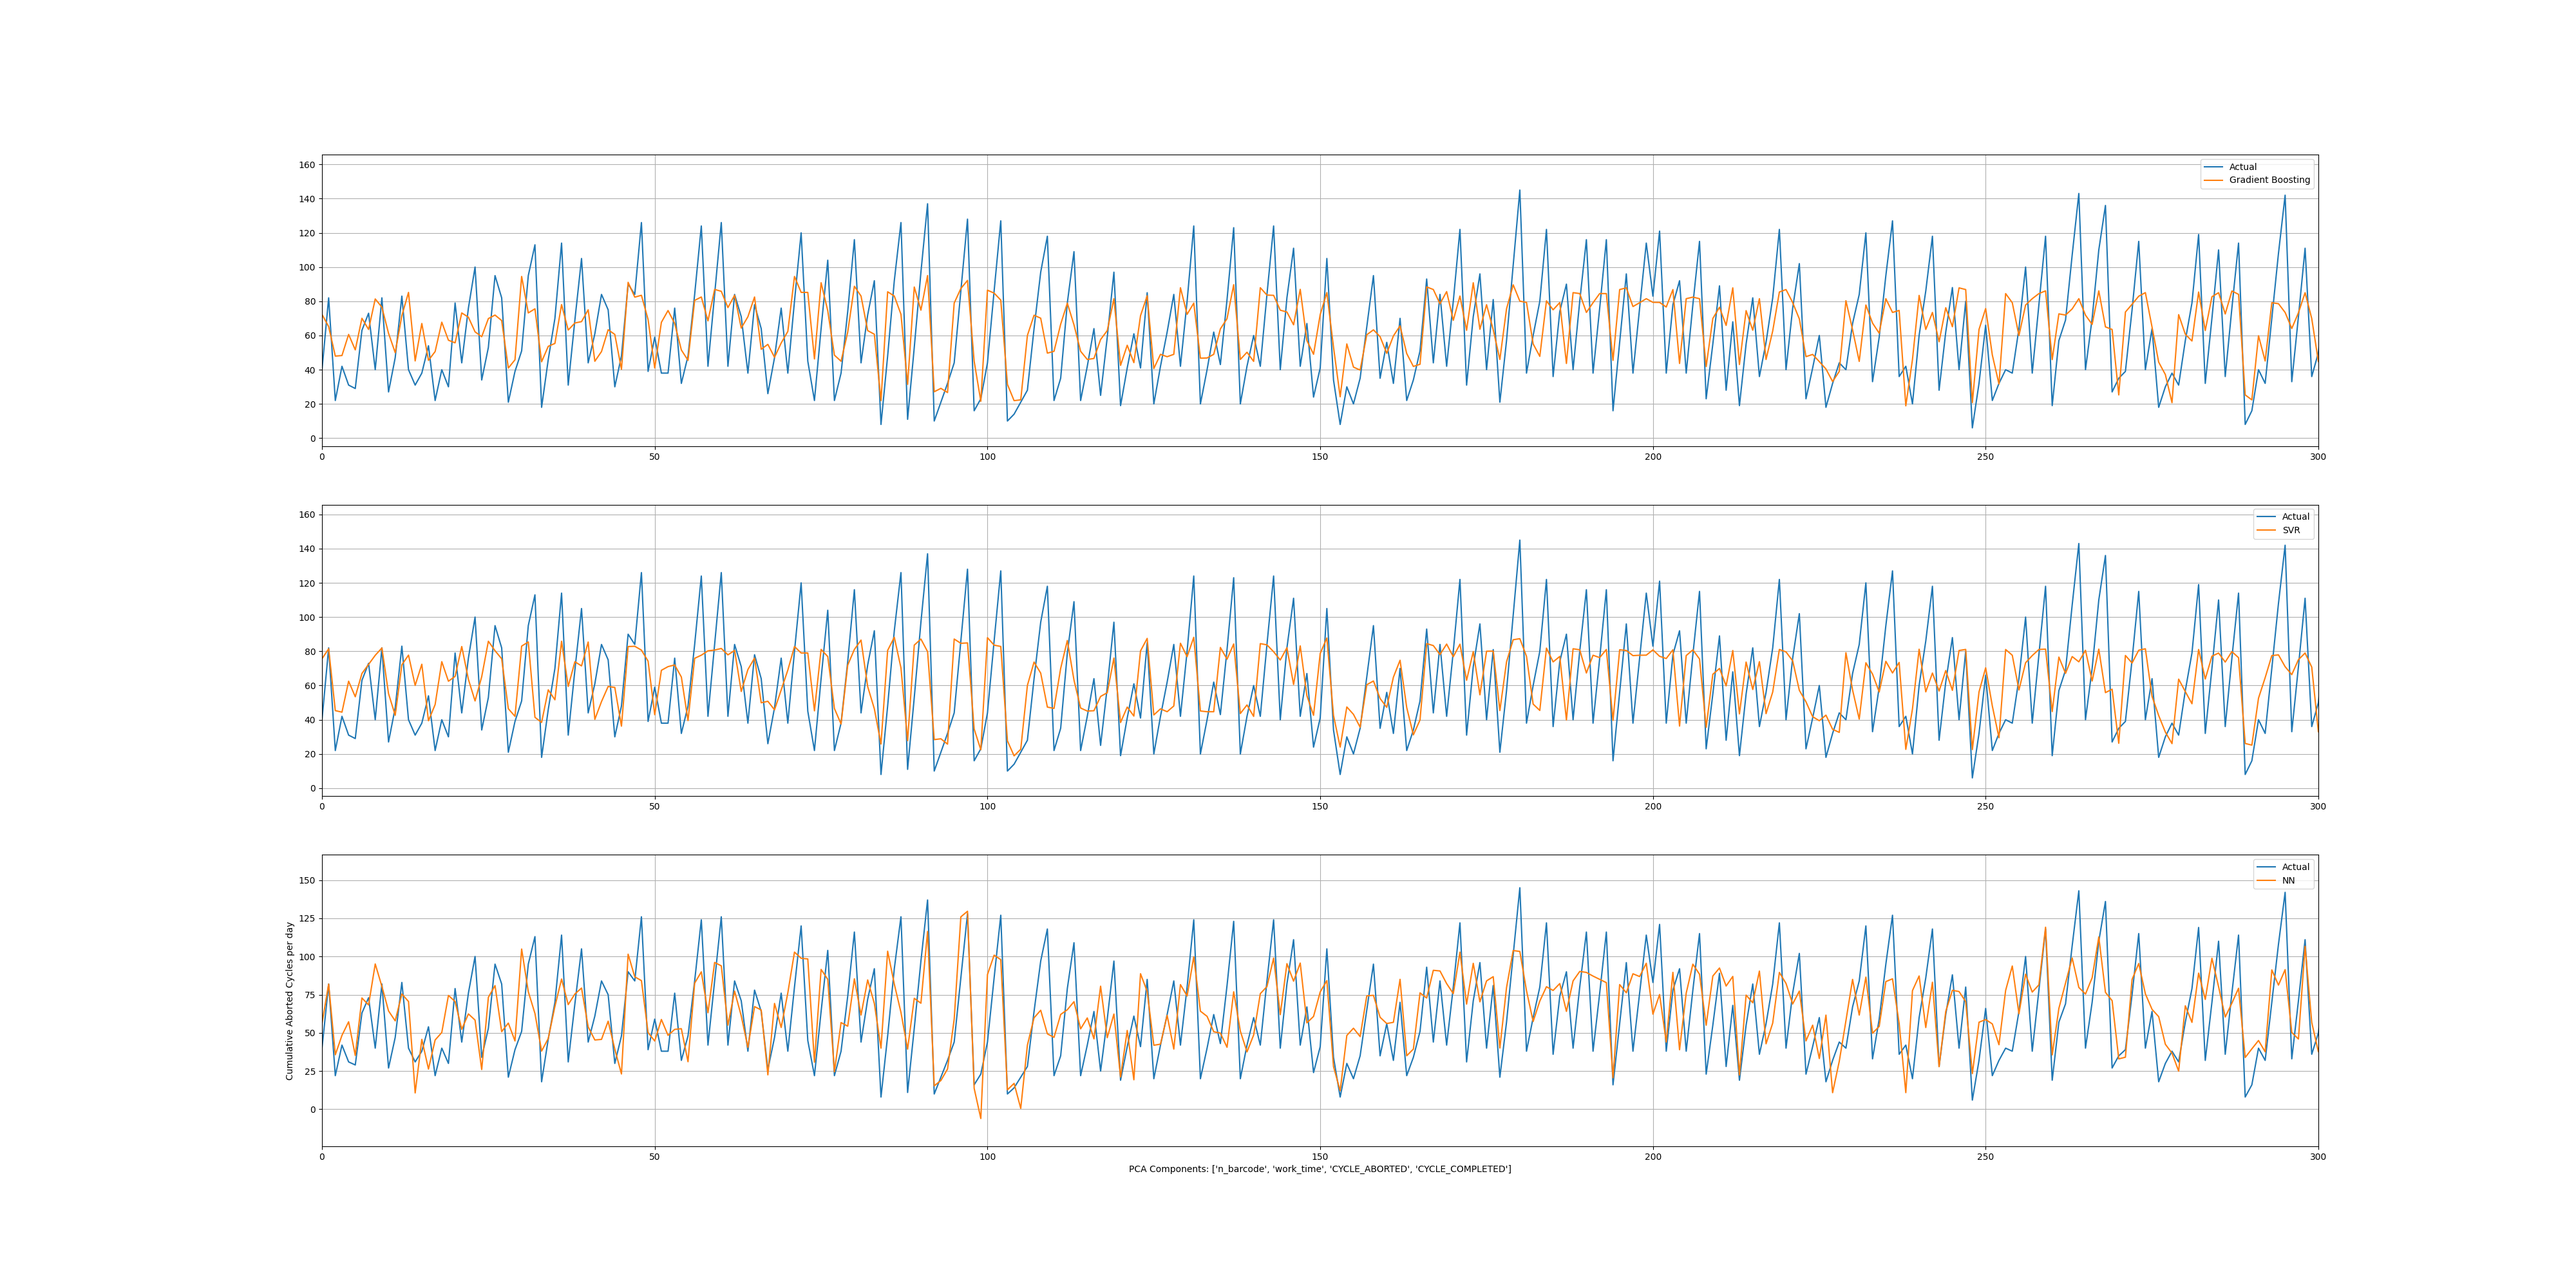
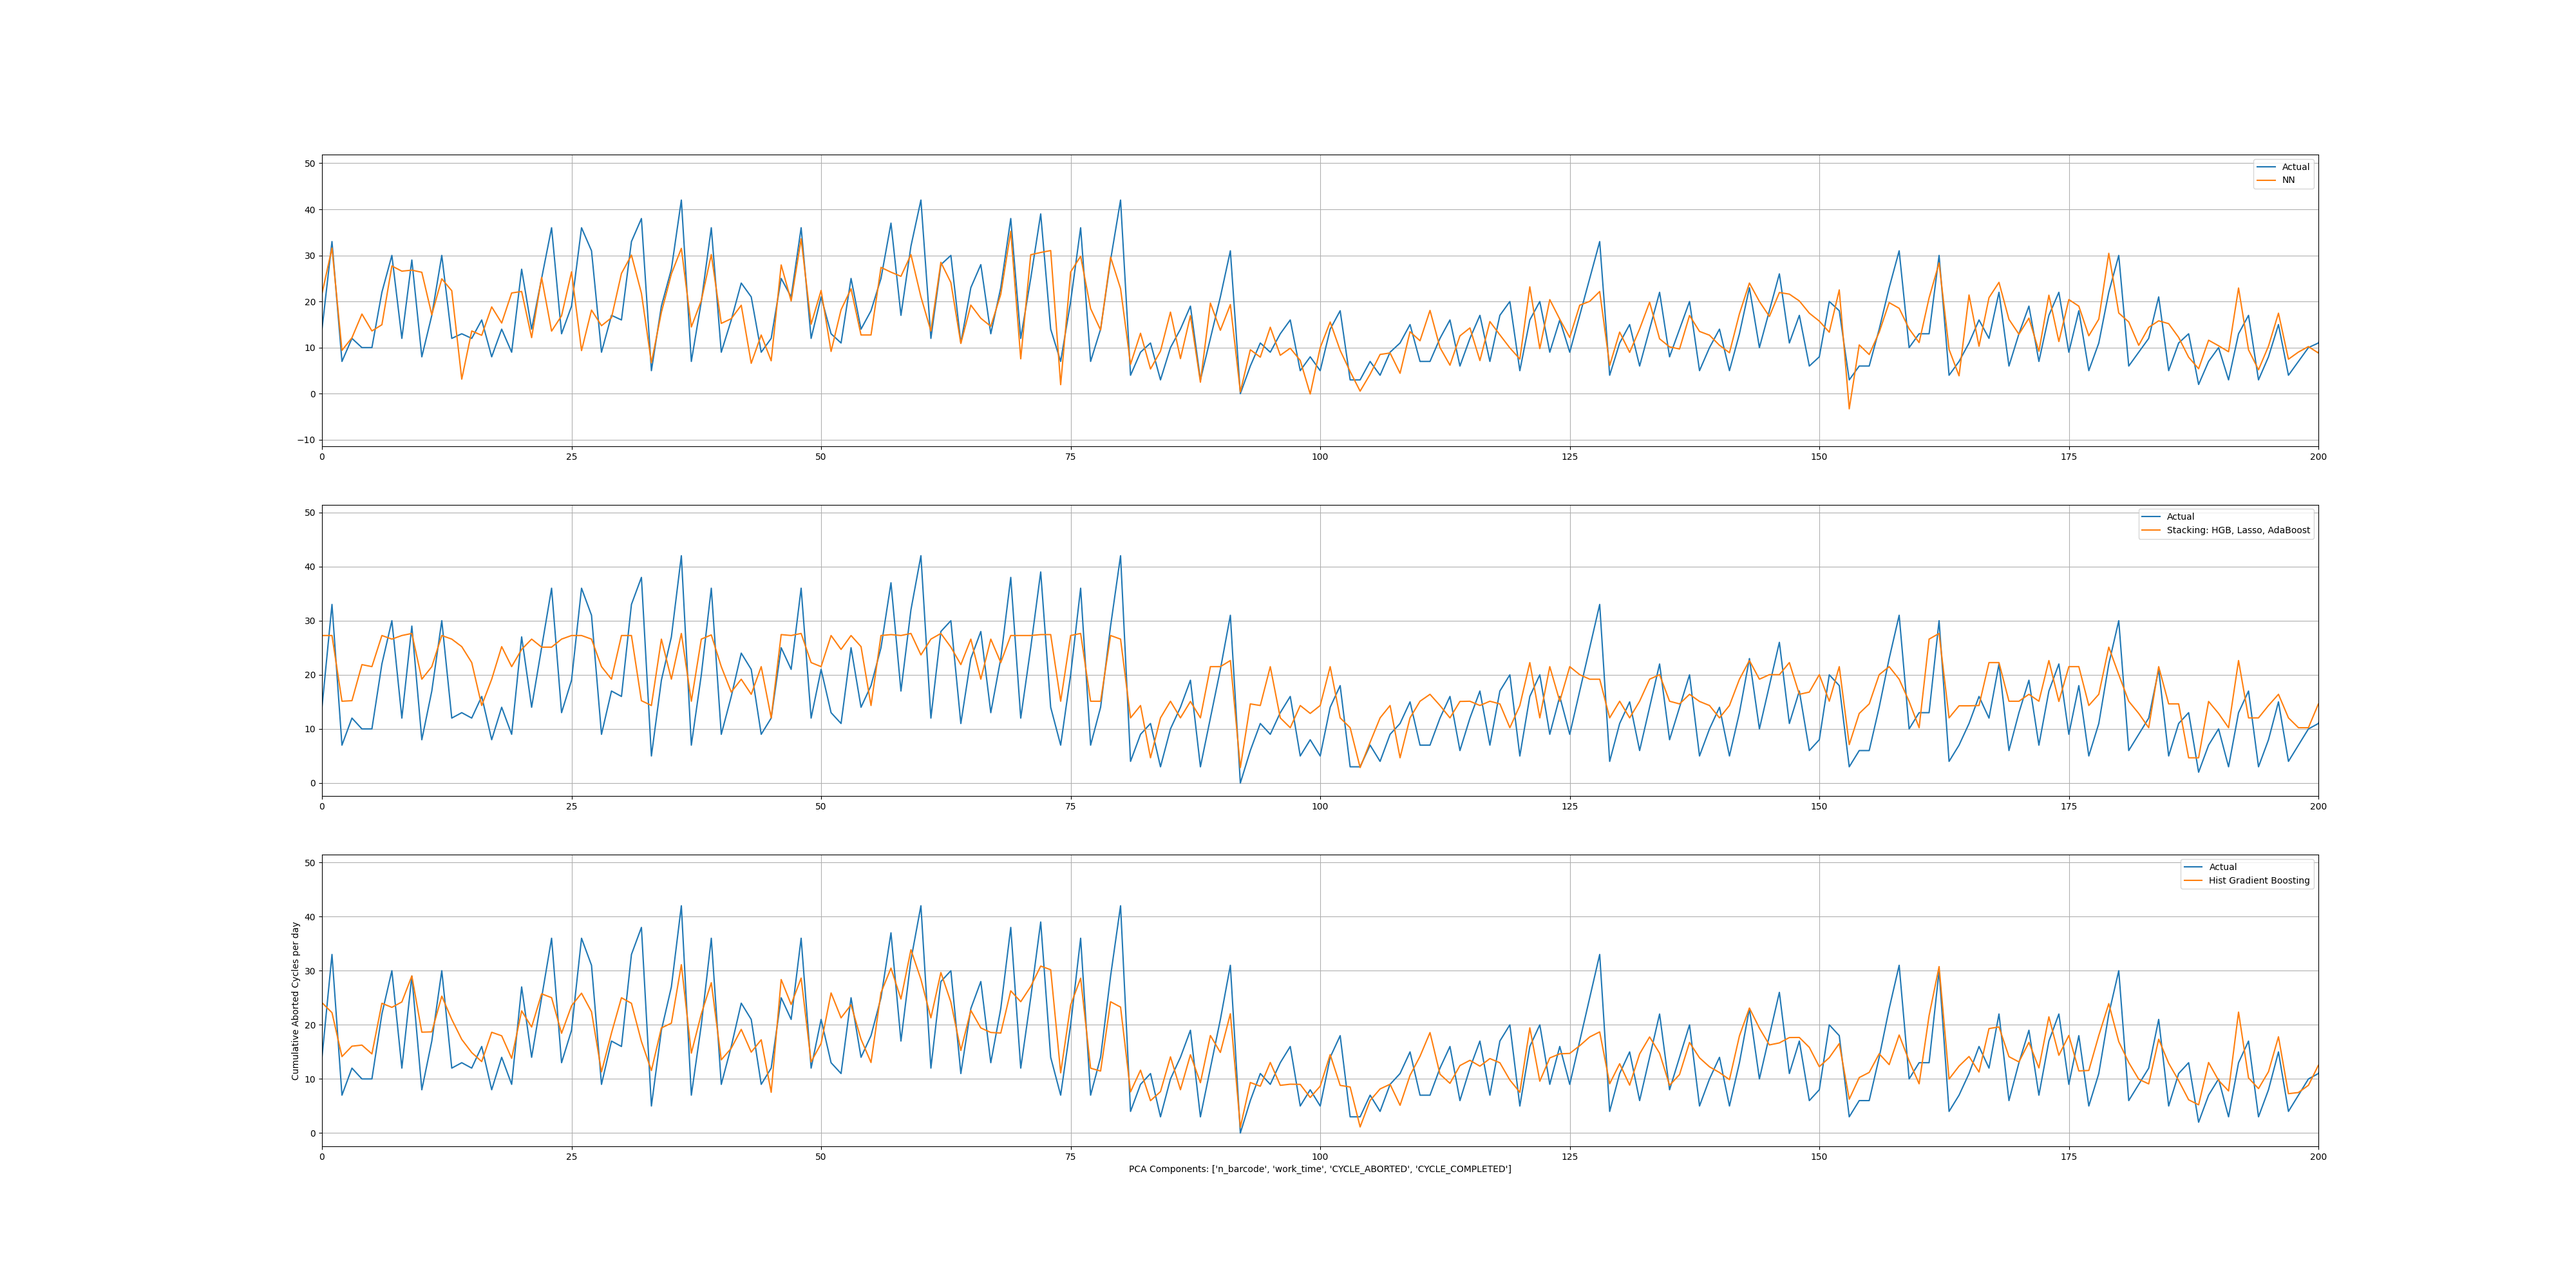
uodate regression

diff --git a/src/prediction/evaluations_regressions.py b/src/prediction/evaluations_regressions.py
@@ -30,23 +30,18 @@ def lasso_regression(x,y):
 
 def adaboost_regression(x,y):
     print_configs("Model: AdaBoost")
-    model = AdaBoostRegressor(random_state=0, n_estimators=100).fit(x, y)
+    model = AdaBoostRegressor(random_state=SEED, n_estimators=100).fit(x, y)
     return model
 
 def stack_regression(x,y):
-    estimators = [('gbr', HistGradientBoostingRegressor(random_state=SEED)), ('svr', SVR(kernel='rbf', C=1.0, epsilon=0.2))]
-    model = StackingRegressor(estimators=estimators, final_estimator=RandomForestRegressor(n_estimators=1000,random_state=SEED)).fit(x, y)
-    return model
-
-def log_regression(x,y):
-    print_configs("Model: Logistic Regression")
-    model = LogisticRegression(random_state=SEED).fit(x, y)
+    estimators = [('gbr', HistGradientBoostingRegressor(random_state=SEED)), ('lasso', Lasso(alpha=0.1))]
+    model = StackingRegressor(estimators=estimators, final_estimator= AdaBoostRegressor(n_estimators=5000,random_state=SEED)).fit(x, y)
     return model
 
 def svr_regression(x,y):
     # 'linear', 'poly', 'rbf', 'sigmoid', 'precomputed'
     print_configs("Model: SVR")
-    model = SVR(kernel='linear', C=1.0, epsilon=0.2).fit(x, y)
+    model = SVR(kernel='rbf', C=1.0, epsilon=0.2).fit(x, y)
     return model
     
 def lin_regr(x, y):
@@ -62,16 +57,6 @@ def grad_boost(x, y):
 def perceptron(x, y):
     print_debugging("Model: Perceptron")
     model = Perceptron(tol=1e-3, random_state=SEED).fit(x, y)
-    return model
-
-def naive_bayes(x, y):
-    print_debugging("Model: Naive Bayes")
-    model = GaussianNB().fit(x, y)
-    return model
-
-def theilsen(x, y):
-    print_debugging("Model: TheilSen")
-    model = TheilSenRegressor(random_state=SEED).fit(x, y)
     return model
 
 def ml_nn(x, y):
@@ -163,7 +148,7 @@ class Model_Evaluator():
     def get_x_y(self, df):
         cols = df.columns.to_list()
         for col in cols:
-            if 'cumulative_per_day_n_barcode' in col:
+            if 'cumulative_per_day_CYCLE_ABORTED' in col:
                 y = df[col].to_numpy()
         cols_to_drop = ['y-m-day-hour_6_rounded', 'cumulative_per_day_n_barcode',
         'cumulative_per_day_n_barcode_L', 'cumulative_per_day_n_barcode_R',
@@ -191,7 +176,7 @@ class Model_Evaluator():
         import lime
         from lime import lime_tabular
         import random
-        explainer = lime_tabular.LimeTabularExplainer(train, feature_names=x_cols, class_names=['cumulative_per_day_n_barcode'], verbose=True, mode='regression')
+        explainer = lime_tabular.LimeTabularExplainer(train, feature_names=x_cols, class_names=['cumulative_per_day_CYCLE_ABORTED'], verbose=True, mode='regression')
         figure, ax = plt.subplots(2,2)
         figure.set_size_inches(40,20)
         plt.subplots_adjust(left=0.17,
@@ -248,8 +233,6 @@ if __name__ == '__main__':
     model_svr, _ = model_eval.evaluations(scale_x,scale_y, svr_regression, desc = "SVR")
     model_lin, _ = model_eval.evaluations(scale_x,scale_y, lin_regr, desc = "Linear Regression")
     model_gb, _ = model_eval.evaluations(scale_x,scale_y, grad_boost, desc = "Gradient Boosting")
-    model_perceptron, _ = model_eval.evaluations(scale_x,scale_y, perceptron, desc = "Perceptron")
-    model_naive_bayes, _ = model_eval.evaluations(scale_x,scale_y, naive_bayes, desc = "Naive Bayes")
     model_ml_nn, _ = model_eval.evaluations(scale_x,scale_y, ml_nn, desc = "Multi Layer Perceptron")
     model_stack, data_used = model_eval.evaluations(scale_x,scale_y, stack_regression, desc = "Stacking")
     model_adaboost, _ = model_eval.evaluations(scale_x,scale_y, adaboost_regression, desc = "AdaBoost")
@@ -268,20 +251,20 @@ if __name__ == '__main__':
     
     ax1.plot(scale_y, label='Actual')
     
-    ax1.plot(model_gb.predict(scale_x), label='Gradient Boosting')
+    ax1.plot(model_ml_nn.predict(scale_x), label='NN')
     ax1.legend()
     ax1.grid()
-    ax1.set_xlim(0,300)
+    ax1.set_xlim(0,200)
     ax2.plot(scale_y, label='Actual')
-    ax2.plot(model_svr.predict(scale_x), label='SVR')
+    ax2.plot(model_stack.predict(scale_x), label='Stacking: HGB, Lasso, AdaBoost')
     ax2.legend()
     ax2.grid()
-    ax2.set_xlim(0,300)
+    ax2.set_xlim(0,200)
     ax3.plot(scale_y, label='Actual')
-    ax3.plot(model_ml_nn.predict(scale_x), label='NN')
+    ax3.plot(model_hist_gb.predict(scale_x), label='Hist Gradient Boosting')
     ax3.legend()
     ax3.grid()
-    ax3.set_xlim(0,300)
+    ax3.set_xlim(0,200)
     figure[0].set_size_inches(40,20)
     plt.xlabel(f'PCA Components: {x_cols}')
     plt.ylabel('Cumulative Aborted Cycles per day')
@@ -293,5 +276,5 @@ if __name__ == '__main__':
     test = data_used[1]
     y_exp = data_used[3]
     
-    model_eval.explain_model(model_gb, train, test, x_cols, y_exp)
+    model_eval.explain_model(model_hist_gb, train, test, x_cols, y_exp)
     
